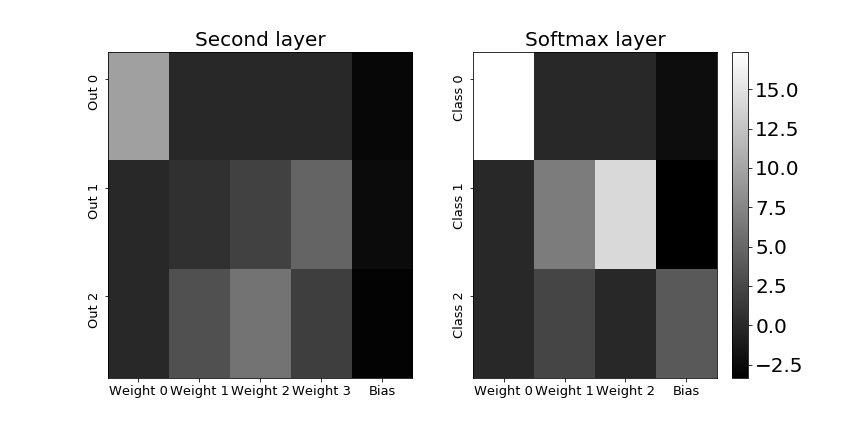
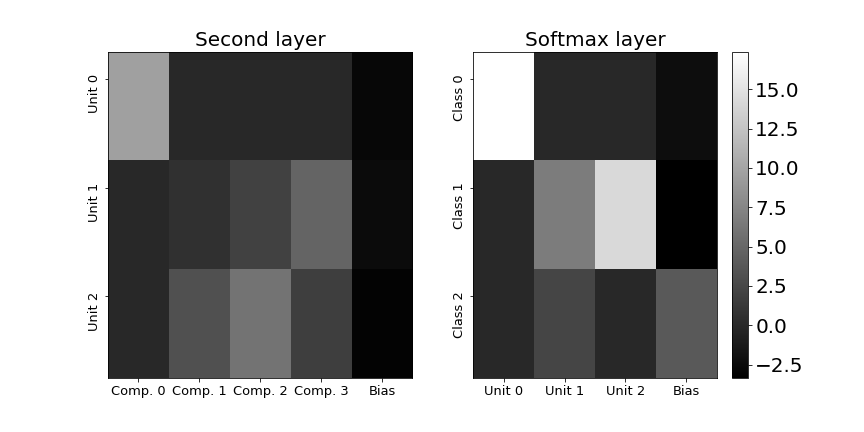
Deep Sparse Non-Negative Neural Network for Raman Spectroscopy

diff --git a/raman_run.py b/raman_run.py
@@ -362,9 +362,9 @@ plt.legend(["Component " + str(i) for i in range(hiddenSizeL1)])
 plt.xlabel("Wavenumber")
 
 #%% Second and Softmax layer
-xticks = ["Weight " + str(i) for i in range(hiddenSizeL1)]
+xticks = ["Comp. " + str(i) for i in range(hiddenSizeL1)]
 xticks += ["Bias"]
-yticks = ["Out " + str(i) for i in range(hiddenSizeL2)]
+yticks = ["Unit " + str(i) for i in range(hiddenSizeL2)]
 canvas = np.zeros(shape = (hiddenSizeL1+1,hiddenSizeL2))
 canvas[:-1,:] = param_4[2]
 canvas[-1,:] = param_4[3]
@@ -381,7 +381,7 @@ ax = plt.imshow(canvas.T,cmap = "gray",aspect = "auto",vmin = min(vals),vmax = m
 plt.xticks(np.arange(hiddenSizeL1+1),xticks,fontsize = 13)
 plt.yticks(np.arange(hiddenSizeL2)-.25,yticks,fontsize = 13,rotation = 90)
 
-xticks_soft = ["Weight " + str(i) for i in range(hiddenSizeL2)]
+xticks_soft = ["Unit " + str(i) for i in range(hiddenSizeL2)]
 xticks_soft += ["Bias"]
 yticks_soft = ["Class " + str(i) for i in range(num_classes)]
 
@@ -517,7 +517,7 @@ for j in range(3):
 plt.figure(figsize=(12,12))
 plt.imshow(canvas,cmap="gray",aspect = "auto")
 plt.xticks(np.arange(8)*25+12.5,[str(C[I[i],0]) for i in range(8)],fontsize = 20)
-plt.yticks(np.arange(3)*100+50,["Class "+str(i+1) for i in range(3)],rotation = 90,fontsize = 20)
+plt.yticks(np.arange(3)*100+50,["Class "+str(i) for i in range(3)],rotation = 90,fontsize = 20)
 
 
 #%% Image of activations
@@ -530,4 +530,4 @@ for j in range(3):
 plt.figure(figsize=(12,12))
 plt.imshow(canvas,cmap="gray",aspect = "auto")
 plt.xticks(np.arange(8)*25+12.5,[str(C[I[i],0]) for i in range(8)],fontsize = 20)
-plt.yticks(np.arange(3)*100+50,["Class "+str(i+1) for i in range(3)],rotation = 90,fontsize = 20)
+plt.yticks(np.arange(3)*100+50,["Unit "+str(i) for i in range(3)],rotation = 90,fontsize = 20)
